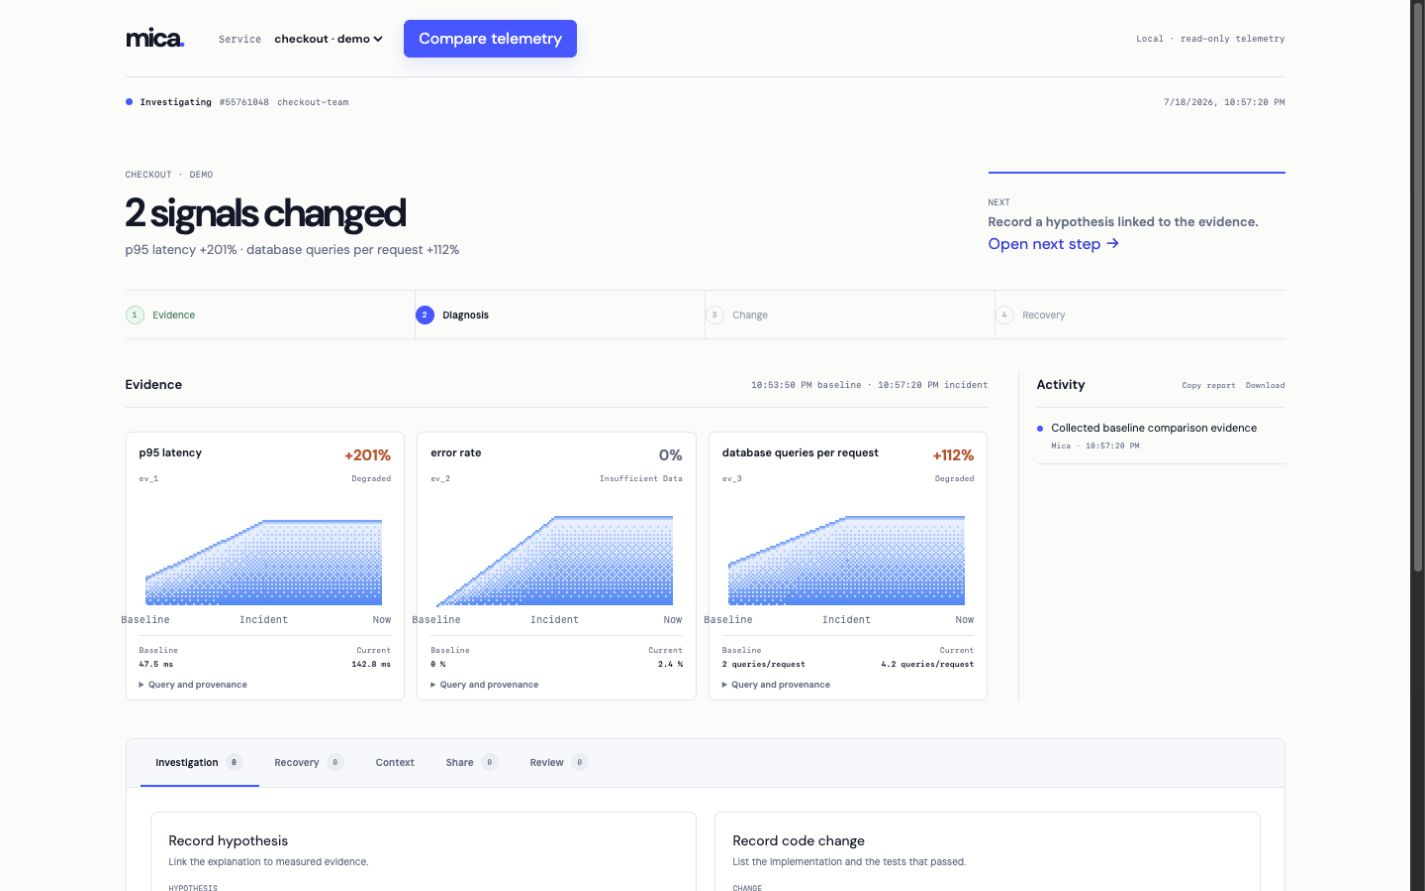
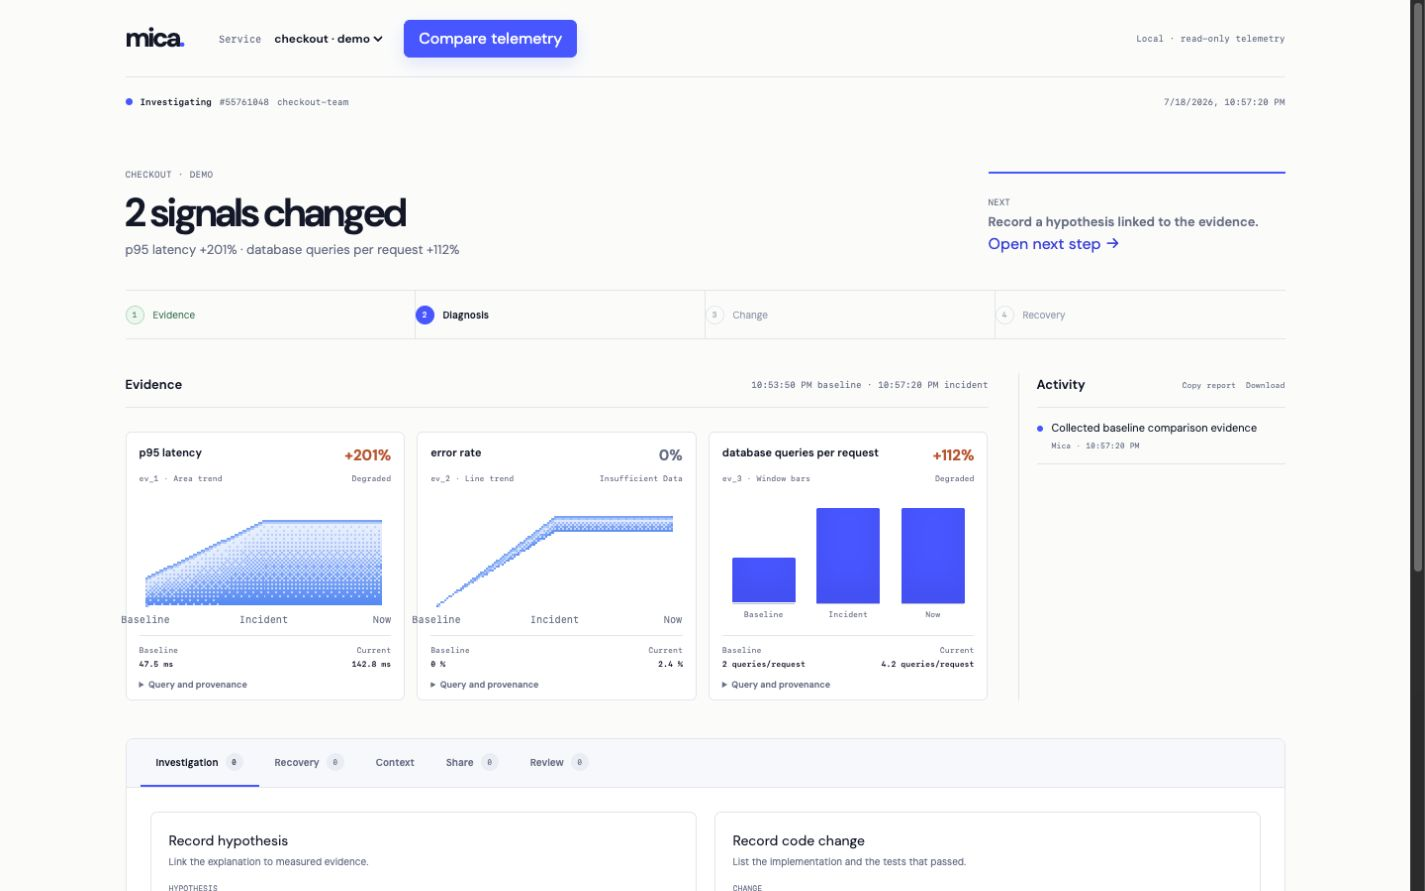
Add signal-specific chart types

Changed region(s): [[0.3088, 0.5455, 0.6793, 0.697], [0.5249, 0.5152, 0.5558, 0.5455], [0.1235, 0.5152, 0.1544, 0.5455]]

diff --git a/web/src/App.tsx b/web/src/App.tsx
@@ -1,7 +1,7 @@
 import { useEffect, useMemo, useState } from "react"
 import type { FormEvent, ReactNode } from "react"
-import { AreaChart } from "@/components/dither-kit/area-chart"
-import { Area } from "@/components/dither-kit/area"
+import { AreaChart, LineChart } from "@/components/dither-kit/area-chart"
+import { Area, Line } from "@/components/dither-kit/area"
 import { Tooltip } from "@/components/dither-kit/tooltip"
 import { XAxis } from "@/components/dither-kit/x-axis"
 import "./App.css"
@@ -87,13 +87,40 @@ function SignalChart({ item }: { item: Evidence }) {
     { window: "Incident", value: item.incidentValue },
     { window: "Now", value: item.currentValue ?? item.incidentValue },
   ], [item])
+  const kind = chartKind(item.signal)
 
   return <div className="mini-chart" role="img" aria-label={`${item.signal}: ${measure(item.baselineValue, item.unit)} at baseline and ${measure(item.currentValue ?? item.incidentValue, item.unit)} now`}>
-    <AreaChart data={data} config={{ value: { label: item.signal, color: "blue" } }} margins={{ left: 8, bottom: 24 }}>
-      <XAxis dataKey="window"/>
-      <Tooltip labelKey="window" valueFormatter={value => measure(value, item.unit)} variant="frosted-glass"/>
-      <Area dataKey="value" variant="gradient"/>
-    </AreaChart>
+    {kind === "bars" ? <WindowBars data={data}/> : kind === "line" ?
+      <LineChart data={data} config={{ value: { label: item.signal, color: "blue" } }} margins={{ left: 8, bottom: 24 }}>
+        <XAxis dataKey="window"/>
+        <Tooltip labelKey="window" valueFormatter={value => measure(value, item.unit)} variant="frosted-glass"/>
+        <Line dataKey="value" strokeVariant="solid"/>
+      </LineChart> :
+      <AreaChart data={data} config={{ value: { label: item.signal, color: "blue" } }} margins={{ left: 8, bottom: 24 }}>
+        <XAxis dataKey="window"/>
+        <Tooltip labelKey="window" valueFormatter={value => measure(value, item.unit)} variant="frosted-glass"/>
+        <Area dataKey="value" variant="gradient"/>
+      </AreaChart>}
+  </div>
+}
+
+function chartKind(signal: string): "area" | "line" | "bars" {
+  if (signal.includes("error")) return "line"
+  if (signal.includes("queries")) return "bars"
+  return "area"
+}
+
+function chartKindLabel(signal: string) {
+  return chartKind(signal) === "bars" ? "Window bars" : chartKind(signal) === "line" ? "Line trend" : "Area trend"
+}
+
+function WindowBars({ data }: { data: { window: string; value: number }[] }) {
+  const maximum = Math.max(...data.map(item => item.value), 1)
+  return <div className="metric-bars" aria-hidden="true">
+    {data.map(item => <div className="metric-bar" key={item.window}>
+      <div className="bar-track"><i style={{ height: `${Math.max(3, item.value / maximum * 100)}%` }}/></div>
+      <span>{item.window}</span>
+    </div>)}
   </div>
 }
 
@@ -383,7 +410,7 @@ function ProgressSteps({ incident }: { incident: Incident }) {
 function EvidenceCard({ item, incident, service }: { item: Evidence; incident: Incident; service: Service | null }) {
   return <article className="evidence-card">
     <div className="evidence-card-header">
-      <div><h3>{item.signal}</h3><span>{item.id}</span></div>
+      <div><h3>{item.signal}</h3><span>{item.id} · {chartKindLabel(item.signal)}</span></div>
       <div className={`signal-change ${item.classification}`}><b>{item.percentDelta > 0 ? "+" : ""}{item.percentDelta.toFixed(0)}%</b><span>{label(item.classification)}</span></div>
     </div>
     <SignalChart item={item}/>

diff --git a/web/src/App.css b/web/src/App.css
@@ -100,6 +100,14 @@
 .signal-change.stable, .signal-change.improved { color: #37815a; }
 .signal-change.insufficient_data { color: var(--muted); }
 .mini-chart { height: 132px; margin: 12px -2px 4px; }
+.metric-bars { display: grid; grid-template-columns: repeat(3,1fr); gap: 22px; height: 132px; padding: 8px 12px 0; }
+.metric-bar { display: grid; grid-template-rows: 1fr 22px; gap: 5px; min-width: 0; }
+.bar-track { display: flex; align-items: end; border-bottom: 1px solid #b7c2d2; }
+.bar-track i { width: 100%; min-height: 3px; border-radius: 2px 2px 0 0; background: var(--blue); box-shadow: inset 0 -18px 28px rgba(8,55,160,.16); transform-origin: bottom; animation: bar-rise .55s cubic-bezier(.2,.8,.2,1) both; }
+.metric-bar:nth-child(2) .bar-track i { animation-delay: .08s; }
+.metric-bar:nth-child(3) .bar-track i { animation-delay: .16s; }
+.metric-bar > span { overflow: hidden; color: var(--muted); font: 8px var(--mono); text-align: center; text-overflow: ellipsis; }
+@keyframes bar-rise { from { transform: scaleY(0); opacity: .45; } to { transform: scaleY(1); opacity: 1; } }
 .value-row { display: flex; justify-content: space-between; gap: 8px; padding-top: 9px; border-top: 1px solid var(--line); color: var(--muted); font: 8px var(--mono); }
 .value-row span { display: grid; gap: 4px; }
 .value-row span:last-child { justify-items: end; }